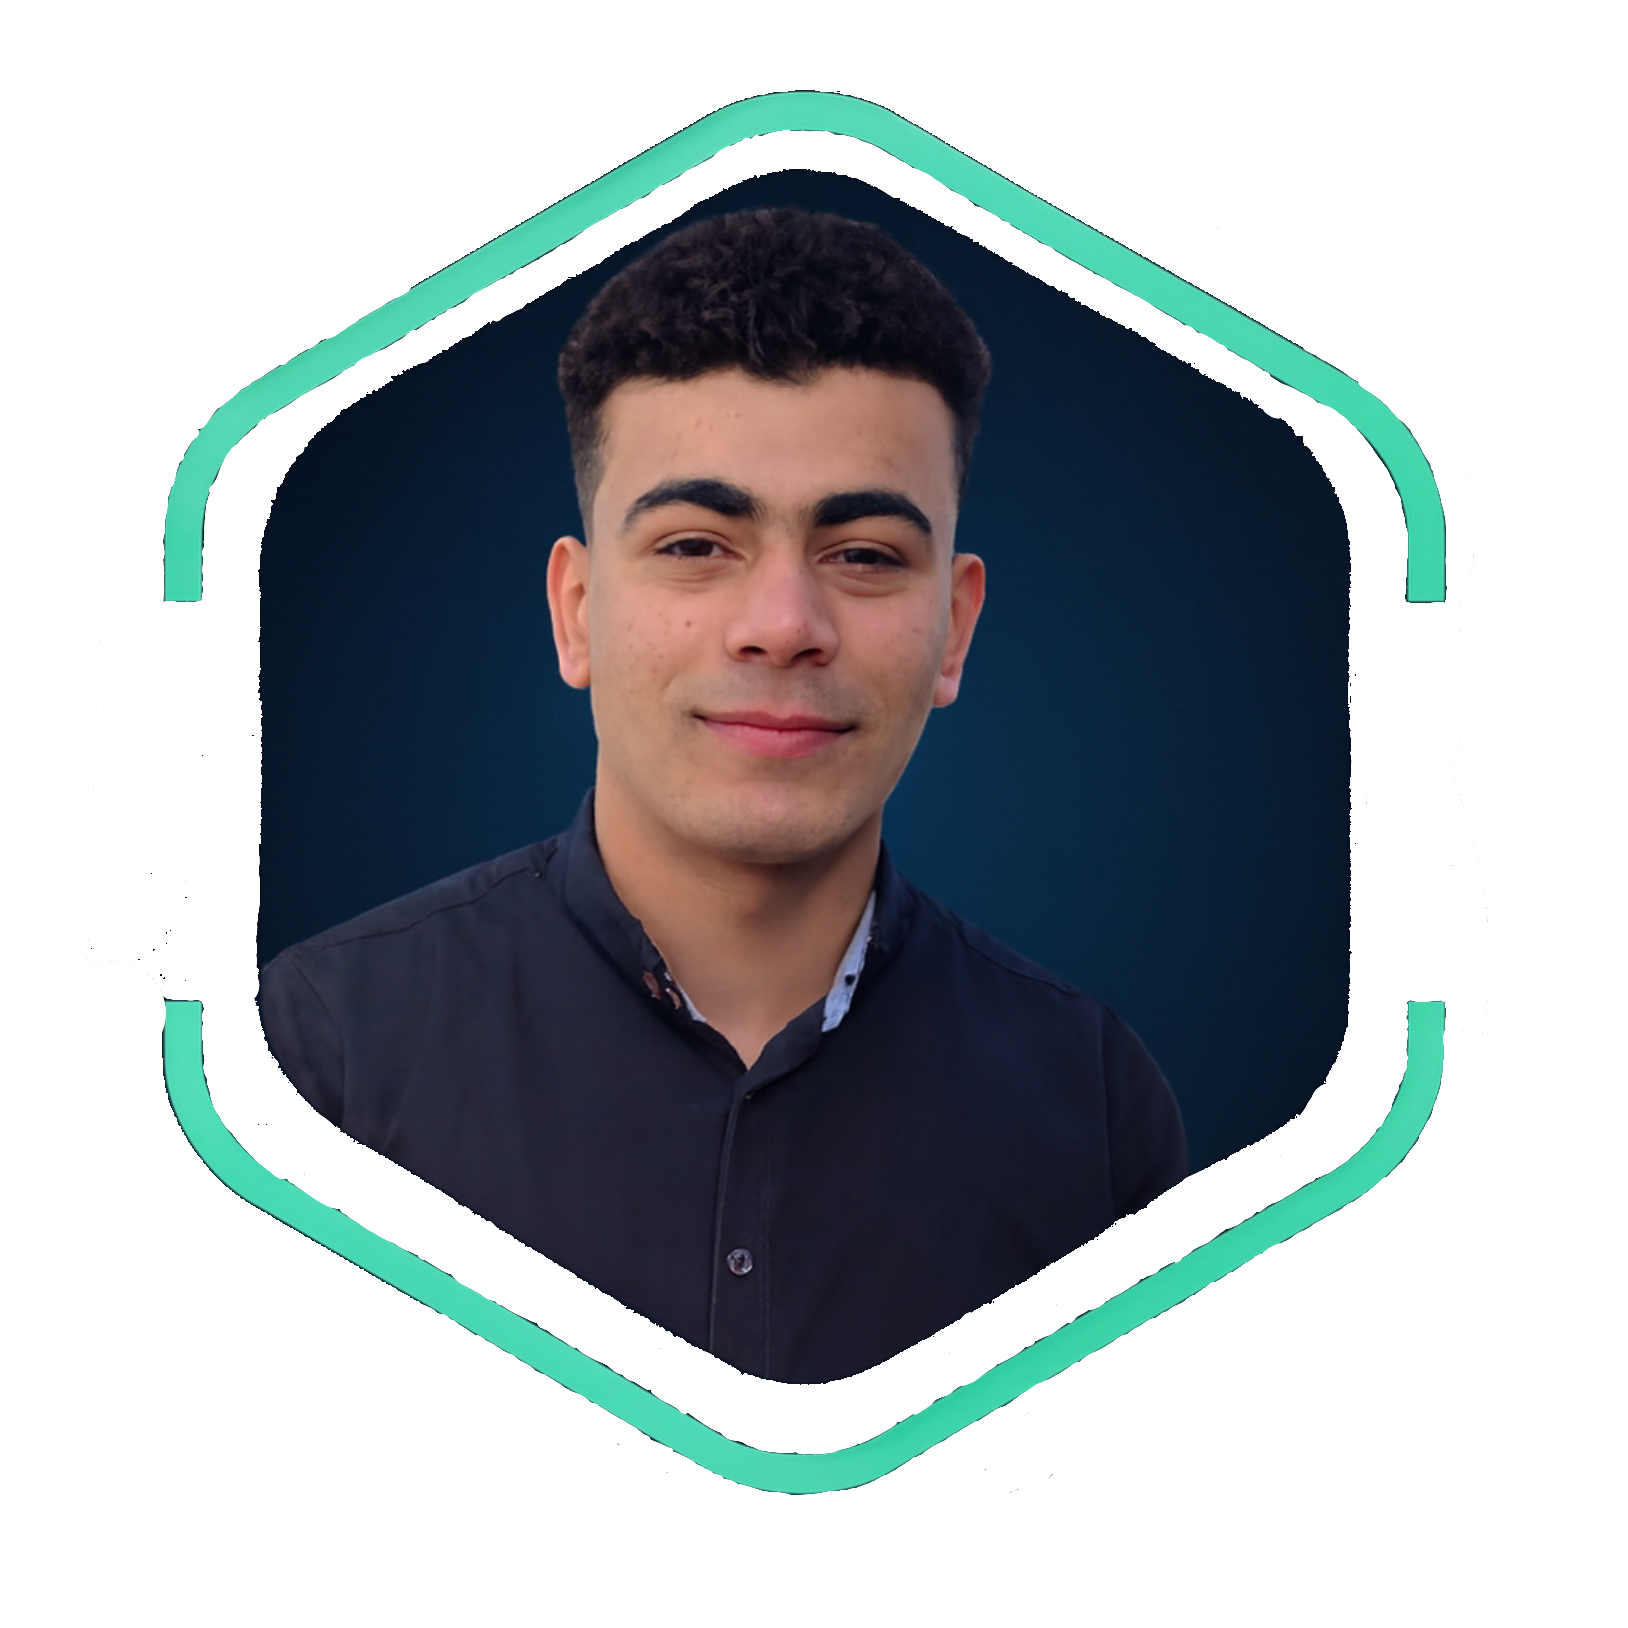
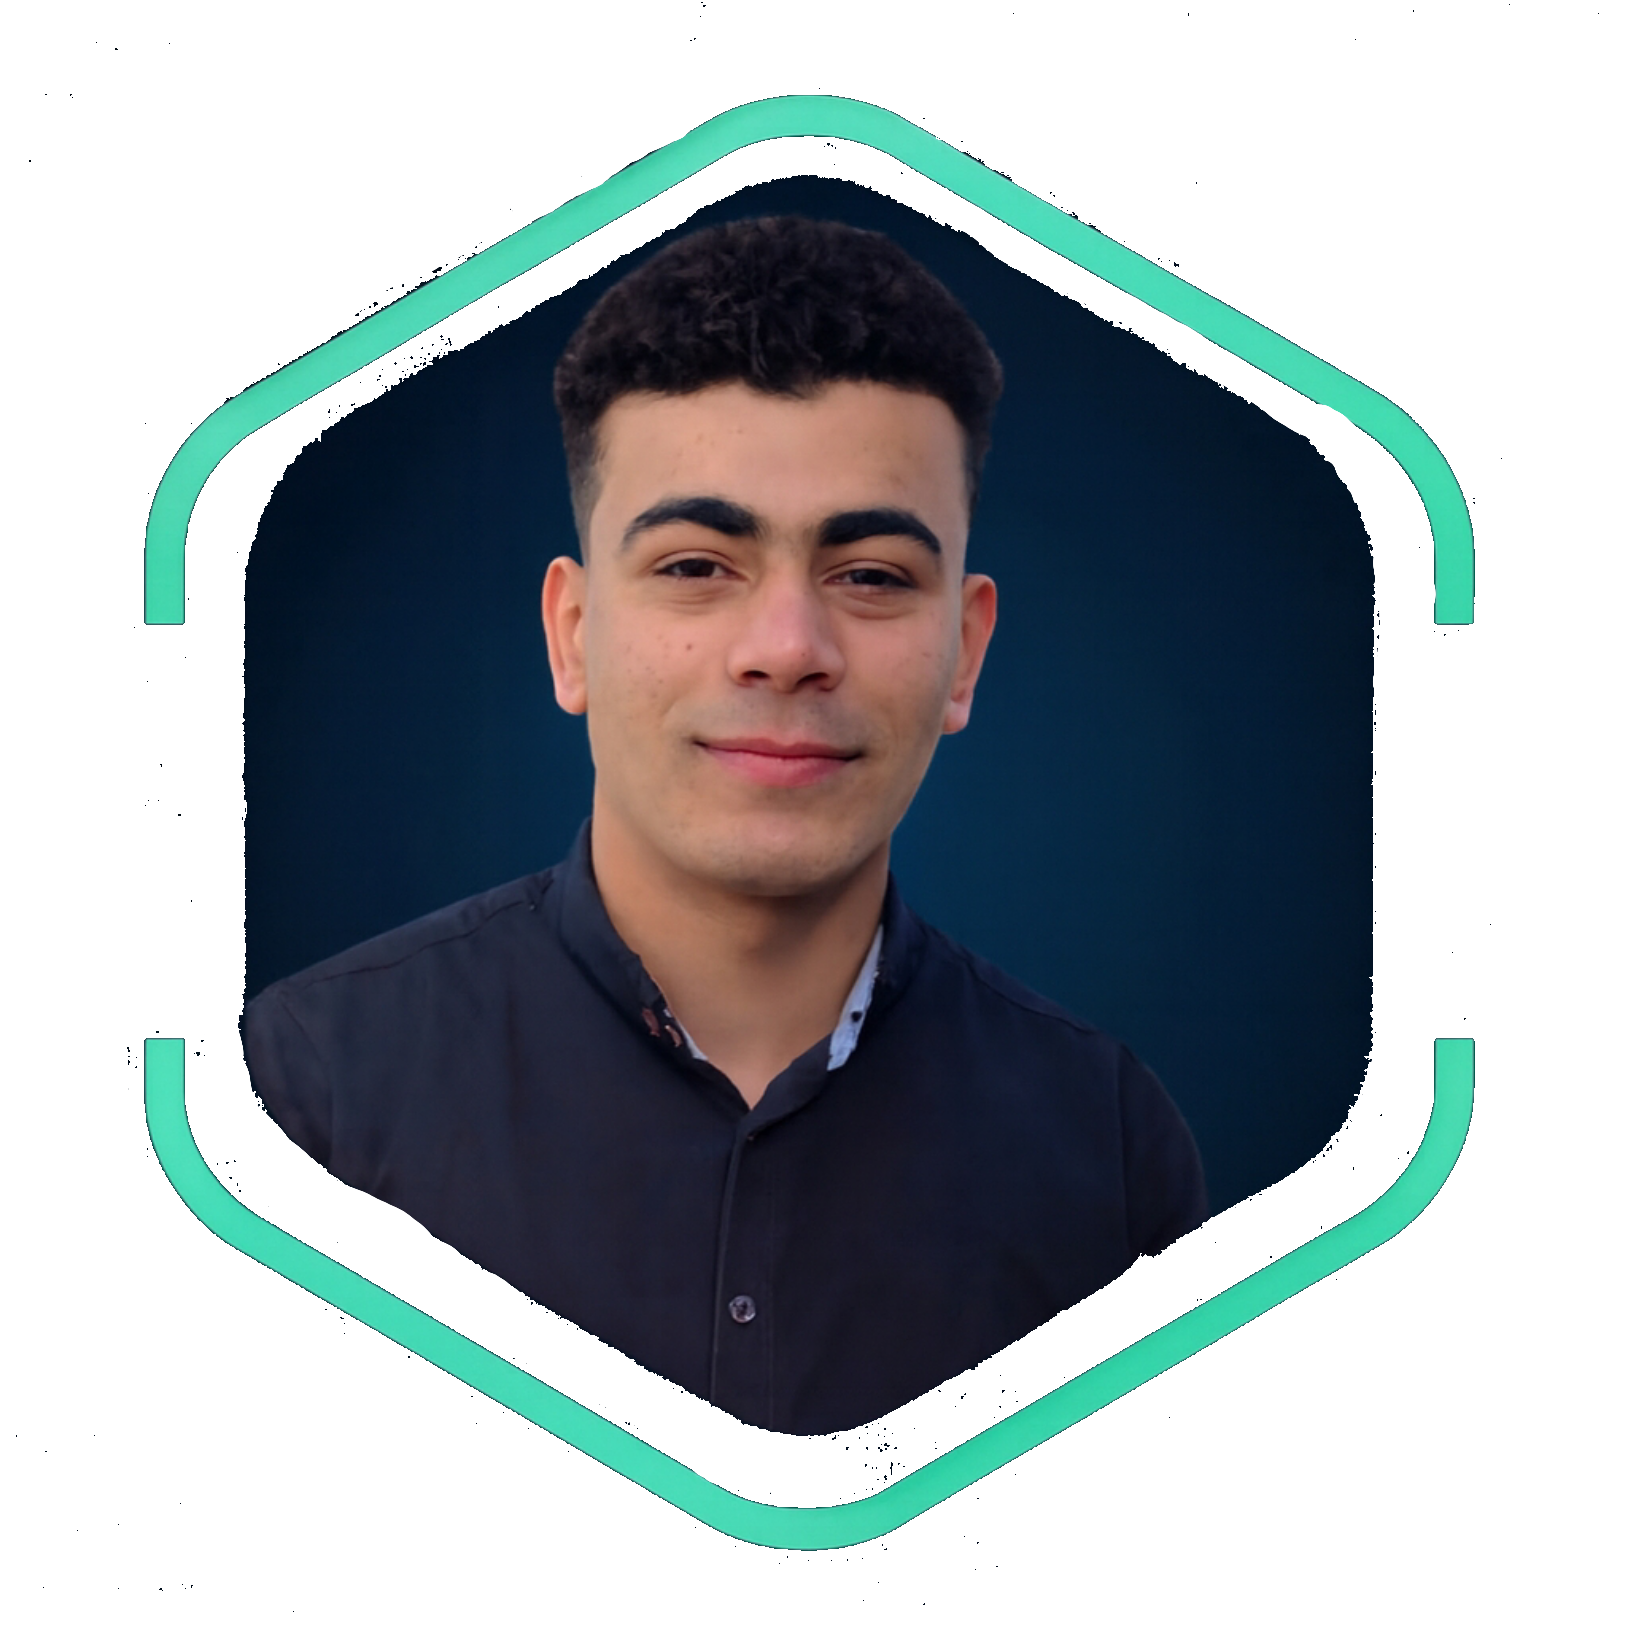
Add files via upload

Changed region(s): [[0.0614, 0.0307, 0.9214, 0.9521]]

diff --git a/index.html b/index.html
@@ -13,7 +13,7 @@
         <div class="container">
             <div class="header">
                 <div class="logo">
-                    <a href="#home"><img src="others/logo.jpeg" alt=""></a>
+                    <a href="#home"><img src="others/logo.jpg" alt=""></a>
                     <a href="#home"><h2>Mahmoud</h2></a>
                 </div>
                 <div class="links">
@@ -91,7 +91,7 @@
                         <p>A personal portfolio website to showcase my skills, projects, and experience.</p>
                         <div class="tast">
                             <div class="intast">
-                                <a href="#home">Live Demo</a>
+                                <a href="https://mahmoud-elabbasy.github.io/Mahmoud-Elabbasy/" target="_blank">Live Demo</a>
                             </div>
                         </div>
                         <div class="tast">
@@ -137,12 +137,12 @@
                     <a href="https://www.facebook.com/share/1J6ex6v8yd/" target="_blank"><i class="fa-brands fa-facebook"></i></a>
                     <a href="https://www.linkedin.com/in/mahmoud-el-abbasy" target="_blank"><i class="fa-brands fa-linkedin"></i></a>
                     <a href="mailto:ma7moud.el3bbasy@gmail.com" target="_blank"><i class="fa-regular fa-envelope"></i></a>
-                    <a href="" target="_blank"><i class="fa-brands fa-github"></i></a>
+                    <a href="https://github.com/Mahmoud-Elabbasy" target="_blank"><i class="fa-brands fa-github"></i></a>
                 </div>
             </div>
             <div class="footer">
                 <hr>
-                <div class="infooter">&copy; 2025 Designed and Developed by <a href="">Mahmoud_Elabbasy</a></div>
+                <div class="infooter">&copy; 2025 Designed and Developed by <a href="https://wa.me/201093710587" target="_blank">Mahmoud_Elabbasy</a></div>
             </div>
         </div>
     </body>

diff --git a/css/master.css b/css/master.css
@@ -147,7 +147,7 @@ a {
 .home .info p {
     color: white;
     line-height: 2;
-    font-size: 20px;
+    font-size: 25px;
 }
 .home .info .cv {
     background-color: var(--maincolor);
@@ -325,8 +325,8 @@ hr {
     align-items: center;
 }
 .about .about-content img {
-    max-width: 390px;
-    max-height: 390px;
+    max-width: 450px;
+    max-height: 450px;
 }
 .about .about-content .inf {
     color: white;
